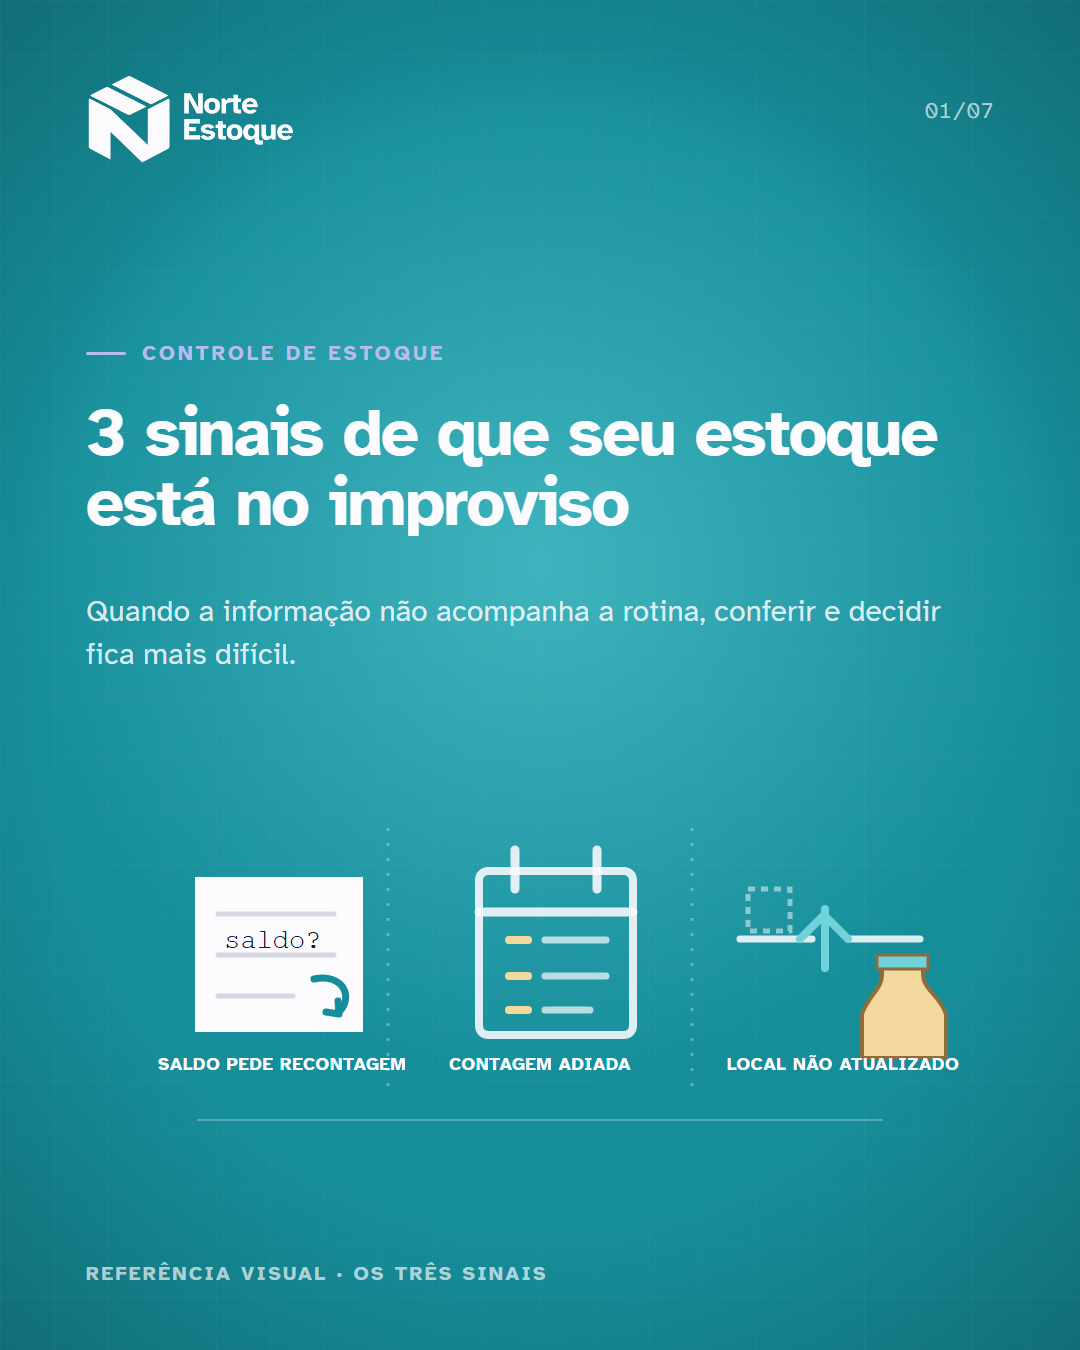
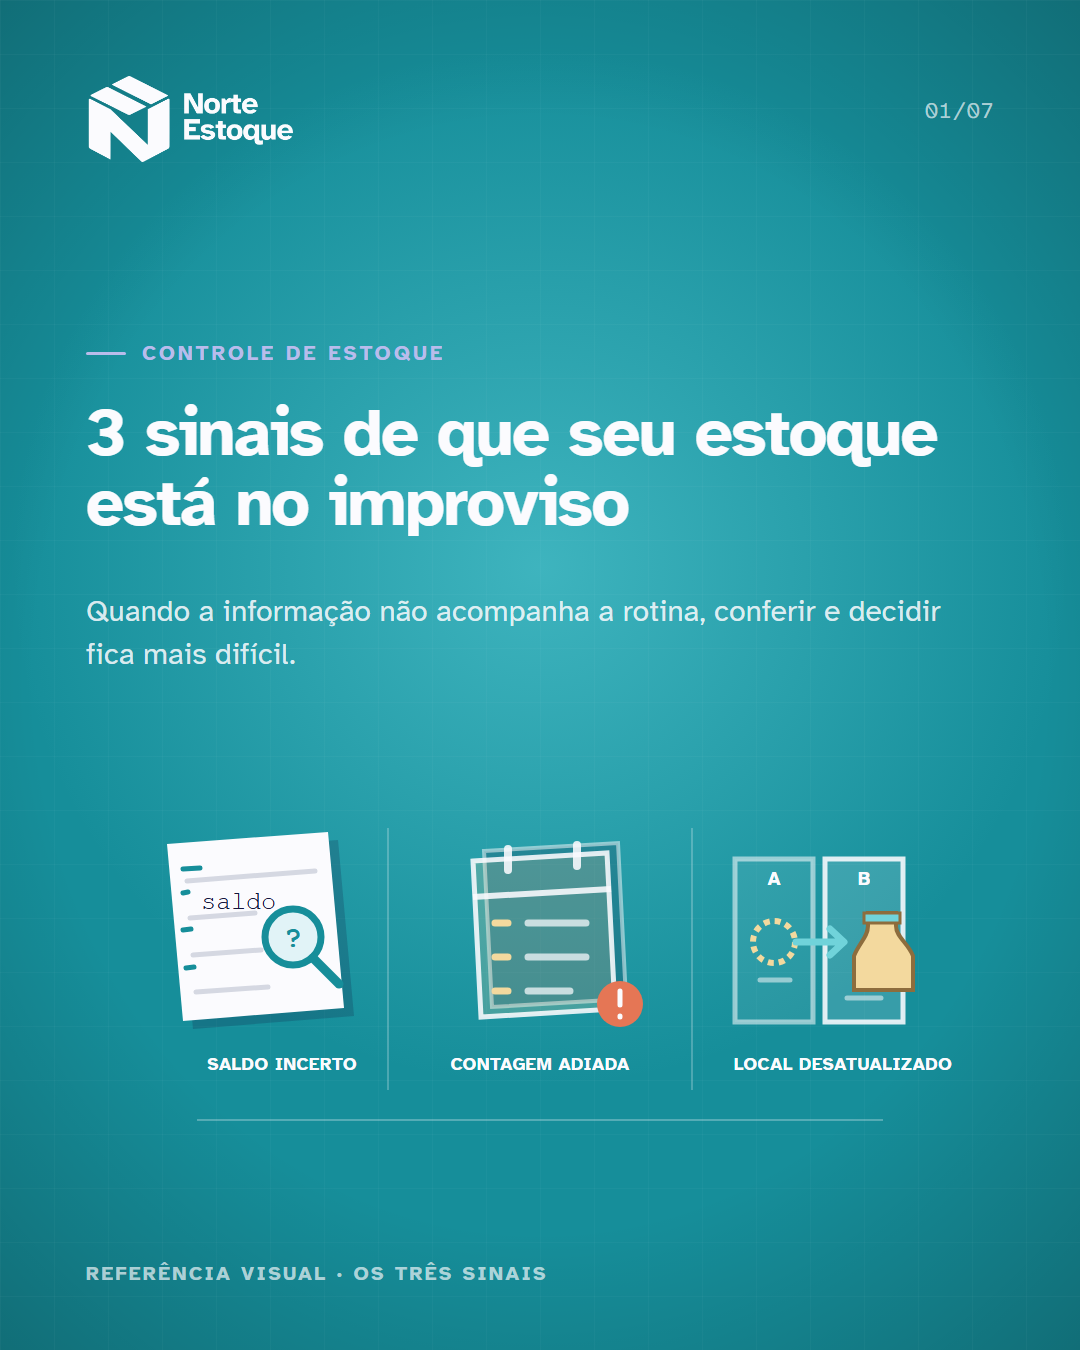
Redraw each inventory warning sign separately

Changed region(s): [[0.6722, 0.6222, 0.8861, 0.8089], [0.1528, 0.5911, 0.3667, 0.8089], [0.4278, 0.6222, 0.6111, 0.8089]]

diff --git a/src/coverReferences/NorteEstoqueCoverReferences.tsx b/src/coverReferences/NorteEstoqueCoverReferences.tsx
@@ -29,35 +29,45 @@ const RefFrame: React.FC<{name: string; children: React.ReactNode}> = ({name, ch
 
 const LinhaSinais: React.FC = () => (
   <RefFrame name="Os três sinais">
-    <svg width="908" height="390" viewBox="0 0 908 390" fill="none" xmlns="http://www.w3.org/2000/svg" aria-label="Três sinais: saldo pede recontagem, contagem adiada e local não atualizado">
-      <path d="M302 58V320M606 58V320" stroke="rgba(251,251,254,.3)" strokeWidth="3" strokeDasharray="3 12" />
-      <g transform="translate(89 84)">
-        <path d="M20 23H188V178H20Z" fill="#FBFBFE" />
-        <path d="M43 60H159M43 101H159M43 142H118" stroke="#D5D8E2" strokeWidth="5" strokeLinecap="round" />
-        <text x="49" y="94" fill="#14163A" fontFamily="monospace" fontSize="27">saldo?</text>
-        <path d="M139 125C168 119 179 143 164 158" stroke="#168E9A" strokeWidth="7" strokeLinecap="round" />
-        <path d="M163 147L164 160L151 158" stroke="#168E9A" strokeWidth="7" strokeLinecap="round" strokeLinejoin="round" />
+    <svg width="908" height="390" viewBox="0 0 908 390" fill="none" xmlns="http://www.w3.org/2000/svg" aria-label="Três sinais ilustrados separadamente: saldo incerto, contagem adiada e local desatualizado">
+      <path d="M302 58V320M606 58V320" stroke="rgba(251,251,254,.24)" strokeWidth="2" />
+      <g transform="translate(70 48)">
+        <path d="M21 34L182 22L198 198L37 211Z" fill="rgba(20,22,58,.2)" />
+        <path d="M11 26L172 14L188 190L27 203Z" fill="#FBFBFE" />
+        <path d="M31 63L159 53M34 100L99 95M37 137L105 132M40 174L112 169" stroke="#D5D8E2" strokeWidth="5" strokeLinecap="round" />
+        <text x="45" y="91" fill="#14163A" fontFamily="monospace" fontSize="25">saldo</text>
+        <circle cx="137" cy="119" r="28" fill="rgba(112,211,218,.18)" stroke="#168E9A" strokeWidth="7" />
+        <text x="137" y="129" textAnchor="middle" fill="#168E9A" fontFamily="monospace" fontSize="30" fontWeight="700">?</text>
+        <path d="M157 140L183 166" stroke="#168E9A" strokeWidth="9" strokeLinecap="round" />
+        <path d="M27 51L44 50M27 75L32 74M27 112L35 111M30 150L38 149" stroke="#168E9A" strokeWidth="5" strokeLinecap="round" />
       </g>
-      <text x="196" y="300" textAnchor="middle" fill={WHITE} fontFamily={SANS} fontSize="18" fontWeight="700" letterSpacing=".6">SALDO PEDE RECONTAGEM</text>
-      <g transform="translate(381 80)">
-        <rect x="12" y="21" width="154" height="164" rx="9" stroke={STROKE} strokeWidth="8" />
-        <path d="M12 62H166M48 0V39M130 0V39" stroke={STROKE} strokeWidth="9" strokeLinecap="round" />
-        <path d="M42 90H61M42 126H61M42 160H61" stroke={CREAM} strokeWidth="8" strokeLinecap="round" />
-        <path d="M78 90H139M78 126H139M78 160H123" stroke="rgba(251,251,254,.7)" strokeWidth="7" strokeLinecap="round" />
+      <text x="196" y="300" textAnchor="middle" fill={WHITE} fontFamily={SANS} fontSize="18" fontWeight="700" letterSpacing=".4">SALDO INCERTO</text>
+      <g transform="translate(370 55)">
+        <path d="M28 26L162 18L170 174L36 182Z" fill="rgba(20,22,58,.18)" stroke="rgba(251,251,254,.5)" strokeWidth="4" />
+        <path d="M17 36L151 28L159 184L25 192Z" fill="rgba(243,217,158,.2)" stroke={STROKE} strokeWidth="5" />
+        <path d="M17 72L155 64" stroke={STROKE} strokeWidth="6" />
+        <path d="M52 24V45M121 20V41" stroke={STROKE} strokeWidth="8" strokeLinecap="round" />
+        <path d="M39 98H52M39 132H52M39 166H52" stroke={CREAM} strokeWidth="7" strokeLinecap="round" />
+        <path d="M72 98H130M72 132H130M72 166H114" stroke="rgba(251,251,254,.72)" strokeWidth="7" strokeLinecap="round" />
+        <circle cx="164" cy="179" r="23" fill="#E57655" />
+        <path d="M164 166V180M164 191V192" stroke={WHITE} strokeWidth="5" strokeLinecap="round" />
       </g>
-      <text x="454" y="300" textAnchor="middle" fill={WHITE} fontFamily={SANS} fontSize="18" fontWeight="700" letterSpacing=".6">CONTAGEM ADIADA</text>
-      <g transform="translate(650 97)">
-        <path d="M4 72H76M112 72H184" stroke={STROKE} strokeWidth="7" strokeLinecap="round" />
-        <path d="M89 42V101M64 72L88 48L112 72" stroke={TEAL} strokeWidth="8" strokeLinecap="round" strokeLinejoin="round" />
-        <path d="M12 22H54V64H12Z" stroke="rgba(251,251,254,.5)" strokeWidth="5" strokeDasharray="7 6" />
-        <g transform="translate(126 88)"><path d="M20 0H61V20C61 34 78 41 84 59V103H0V59C6 41 20 34 20 20Z" fill={CREAM} stroke="#8D6D3D" strokeWidth="4" /><path d="M15 0H66V14H15Z" fill={TEAL} stroke="#8D6D3D" strokeWidth="3" /></g>
+      <text x="454" y="300" textAnchor="middle" fill={WHITE} fontFamily={SANS} fontSize="18" fontWeight="700" letterSpacing=".4">CONTAGEM ADIADA</text>
+      <g transform="translate(644 61)">
+        <path d="M5 28H83V191H5Z" fill="rgba(251,251,254,.08)" stroke="rgba(251,251,254,.55)" strokeWidth="5" />
+        <path d="M95 28H173V191H95Z" fill="rgba(251,251,254,.15)" stroke={STROKE} strokeWidth="5" />
+        <text x="44" y="54" textAnchor="middle" fill={WHITE} fontFamily={SANS} fontSize="19" fontWeight="700">A</text>
+        <text x="134" y="54" textAnchor="middle" fill={WHITE} fontFamily={SANS} fontSize="19" fontWeight="700">B</text>
+        <circle cx="44" cy="111" r="21" stroke={CREAM} strokeWidth="6" strokeDasharray="6 5" />
+        <path d="M66 111H112M100 98L114 111L100 124" stroke={TEAL} strokeWidth="7" strokeLinecap="round" strokeLinejoin="round" />
+        <g transform="translate(124 82)"><path d="M14 0H42V13C42 24 54 30 59 43V77H0V43C5 30 14 24 14 13Z" fill={CREAM} stroke="#8D6D3D" strokeWidth="4"/><path d="M10 0H46V10H10Z" fill={TEAL} stroke="#8D6D3D" strokeWidth="3"/></g>
+        <path d="M30 149H60M117 167H151" stroke="rgba(251,251,254,.52)" strokeWidth="5" strokeLinecap="round" />
       </g>
-      <text x="757" y="300" textAnchor="middle" fill={WHITE} fontFamily={SANS} fontSize="18" fontWeight="700" letterSpacing=".6">LOCAL NÃO ATUALIZADO</text>
+      <text x="757" y="300" textAnchor="middle" fill={WHITE} fontFamily={SANS} fontSize="18" fontWeight="700" letterSpacing=".4">LOCAL DESATUALIZADO</text>
       <path d="M111 350H797" stroke="rgba(251,251,254,.28)" strokeWidth="2" />
     </svg>
   </RefFrame>
 );
-
 const Caderno: React.FC = () => (
   <RefFrame name="Conferência no papel">
     <svg width="908" height="390" viewBox="0 0 908 390" fill="none" xmlns="http://www.w3.org/2000/svg" aria-label="Folha de conferência com três alertas da rotina de estoque">
@@ -137,6 +147,7 @@ export const NorteEstoqueCapaBalanca = LinhaSinais;
 export const NorteEstoqueCapaMapa = Caderno;
 export const NorteEstoqueCapaEtiqueta = Mapa;
 export const NorteEstoqueCapaMedidor = Mesa;
+
 
 
 
